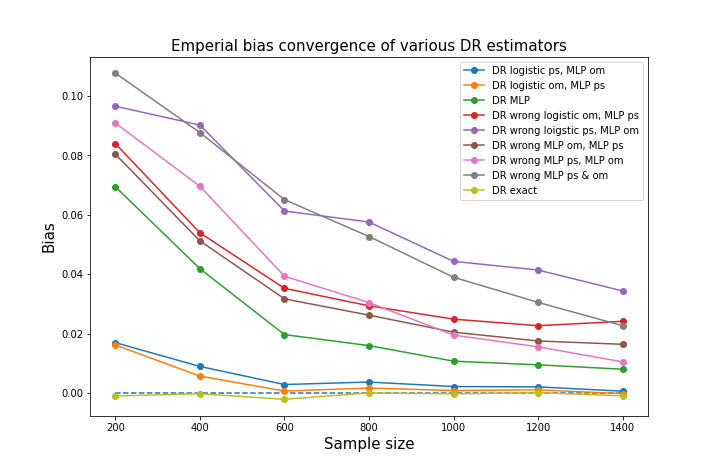
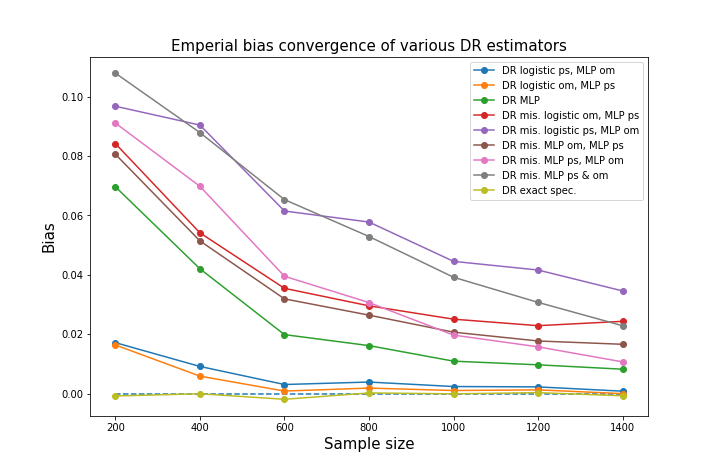
Updating plot legends

diff --git a/Code/comparison.py b/Code/comparison.py
@@ -66,25 +66,25 @@ for i in range(9):
                                                              axis = 0)
 
 #kldehg;qeuhrg
-labels_RF = ['DR logistic ps, forest om',
-          'DR logistic om, forest ps',
-          'DR forest',
-          'DR wrong logistic om, forest ps',
-          'DR wrong loigstic ps, forest om',
-          'DR wrong forest om, forest ps',
-          'DR wrong forest ps, forest om',
-          'DR wrong forest ps & om',
-          'DR exact']
+labels_RF = ['DR logistic ps, RF om',
+          'DR logistic om, RF ps',
+          'DR RF',
+          'DR mis. logistic om, RF ps',
+          'DR mis. logistic ps, RF om',
+          'DR mis. RF om, RF ps',
+          'DR mis. RF ps, RF om',
+          'DR mis. RF ps & om',
+          'DR exact spec.']
 
 labels_MLP = ['DR logistic ps, MLP om',
           'DR logistic om, MLP ps',
           'DR MLP',
-          'DR wrong logistic om, MLP ps',
-          'DR wrong loigstic ps, MLP om',
-          'DR wrong MLP om, MLP ps',
-          'DR wrong MLP ps, MLP om',
-          'DR wrong MLP ps & om',
-          'DR exact']
+          'DR mis. logistic om, MLP ps',
+          'DR mis. logistic ps, MLP om',
+          'DR mis. MLP om, MLP ps',
+          'DR mis. MLP ps, MLP om',
+          'DR mis. MLP ps & om',
+          'DR exact spec.']
 
 numbers = [2,5,6,7]
 fig, (ax1,ax2) = plt.subplots(1,2,sharey = True, figsize = (15,6.6))

diff --git a/Code/random_forest_more_W_DR.py b/Code/random_forest_more_W_DR.py
@@ -41,15 +41,15 @@ for i in range(9):
                                                              axis = 0)
 
 
-labels = ['DR logistic ps, forest om',
-          'DR logistic om, forest ps',
-          'DR forest',
-          'DR wrong logistic om, forest ps',
-          'DR wrong loigstic ps, forest om',
-          'DR wrong forest om, forest ps',
-          'DR wrong forest ps, forest om',
-          'DR wrong forest ps & om',
-          'DR exact']
+labels = ['DR logistic ps, RF om',
+          'DR logistic om, RF ps',
+          'DR RF',
+          'DR mis. logistic om, RF ps',
+          'DR mis. logistic ps, RF om',
+          'DR mis. RF om, RF ps',
+          'DR mis. RF ps, RF om',
+          'DR mis. RF ps & om',
+          'DR exact spec.']
 
 plt.figure(figsize = (10,6.6))
 for i in range(9):
@@ -130,6 +130,6 @@ ax[1,0].set_ylabel('Count', fontsize = 15)
 ax[1,0].vlines(B_true, 0, 120,label = 'True mean')
 
 fig.legend()
-fig.suptitle(r'Histograms of estimates for sample size $N = 1000$', fontsize = 15)
+fig.suptitle(r'Histograms of estimates for sample size $N = $' + str(N[-1]), fontsize = 15)
 plt.savefig('../figures/histRF_moreW.png')
 plt.show()

diff --git a/Code/randomforest_DR.py b/Code/randomforest_DR.py
@@ -47,15 +47,15 @@ for i in range(9):
                                                              axis = 0)
 
 
-labels = ['DR logistic ps, forest om',
-          'DR logistic om, forest ps',
-          'DR forest',
-          'DR wrong logistic om, forest ps',
-          'DR wrong loigstic ps, forest om',
-          'DR wrong forest om, forest ps',
-          'DR wrong forest ps, forest om',
-          'DR wrong forest ps & om',
-          'DR exact']
+labels = ['DR logistic ps, RF om',
+          'DR logistic om, RF ps',
+          'DR RF',
+          'DR mis. logistic om, RF ps',
+          'DR mis. logistic ps, RF om',
+          'DR mis. RF om, RF ps',
+          'DR mis. RF ps, RF om',
+          'DR mis. RF ps & om',
+          'DR exact spec.']
 
 plt.figure(figsize = (10,6.6))
 for i in range(9):
@@ -136,6 +136,6 @@ ax[1,0].set_ylabel('Count', fontsize = 15)
 ax[1,0].vlines(B_true, 0, 120,label = 'True mean')
 
 fig.legend()
-fig.suptitle(r'Histograms of estimates for sample size $N = 1000$', fontsize = 15)
+fig.suptitle(r'Histograms of estimates for sample size $N = $' + str(N[-1]), fontsize = 15)
 plt.savefig('../figures/histRF.png')
 plt.show()

diff --git a/Code/MLP_DR.py b/Code/MLP_DR.py
@@ -50,12 +50,12 @@ for i in range(9):
 labels = ['DR logistic ps, MLP om',
           'DR logistic om, MLP ps',
           'DR MLP',
-          'DR wrong logistic om, MLP ps',
-          'DR wrong loigstic ps, MLP om',
-          'DR wrong MLP om, MLP ps',
-          'DR wrong MLP ps, MLP om',
-          'DR wrong MLP ps & om',
-          'DR exact']
+          'DR mis. logistic om, MLP ps',
+          'DR mis. logistic ps, MLP om',
+          'DR mis. MLP om, MLP ps',
+          'DR mis. MLP ps, MLP om',
+          'DR mis. MLP ps & om',
+          'DR exact spec.']
 
 plt.figure(figsize = (10,6.6))
 for i in range(9):
